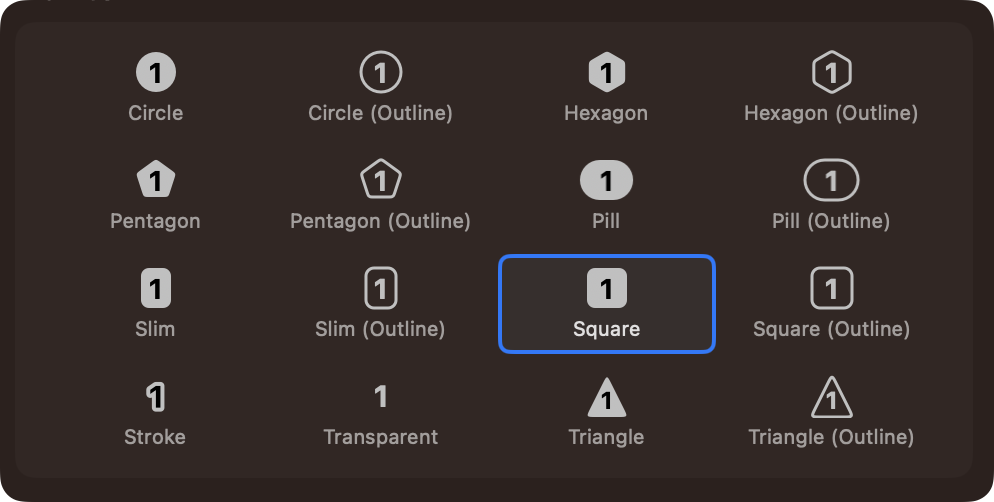
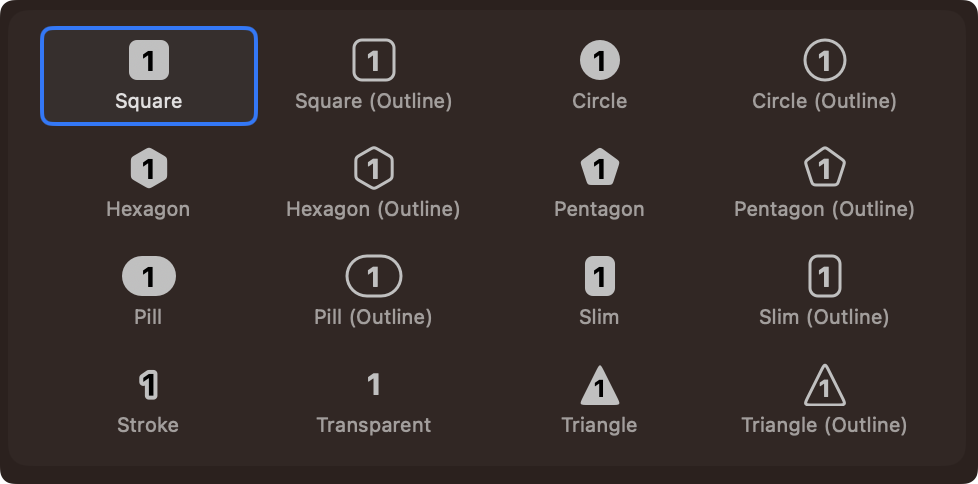
backup: Restore system fonts at their recorded size

diff --git a/WhichSpace/Backup.swift b/WhichSpace/Backup.swift
@@ -482,10 +482,18 @@ struct CodableSpaceFont: Codable {
     }
 
     func toSpaceFont() -> SpaceFont? {
-        guard let font = NSFont(name: name, size: size) else {
+        // NSFont(name:size:) does not support private system font names
+        // (".AppleSystemUIFont", ".SFNS..."): the lookup sometimes returns
+        // a fallback at the default size rather than failing. A size
+        // mismatch marks that case, and the system font at the recorded
+        // size is what the backup meant.
+        if let font = NSFont(name: name, size: size), font.pointSize == size {
+            return SpaceFont(font: font)
+        }
+        guard name.hasPrefix(".") else {
             return nil
         }
-        return SpaceFont(font: font)
+        return SpaceFont(font: NSFont.systemFont(ofSize: size))
     }
 }
 

diff --git a/WhichSpaceTests/Core/BackupTests.swift b/WhichSpaceTests/Core/BackupTests.swift
@@ -125,6 +125,17 @@ struct CodableSpaceFontTests {
         #expect(codable.size == 12)
     }
 
+    @Test("private system font names restore at the recorded size")
+    func privateSystemFontRestores() throws {
+        // Written by older exports; NSFont(name:size:) resolves the private
+        // name to the wrong size or not at all depending on system state
+        let json = #"{"name":".AppleSystemUIFont","size":14}"#
+        let codable = try JSONDecoder().decode(CodableSpaceFont.self, from: Data(json.utf8))
+        let restored = try #require(codable.toSpaceFont())
+
+        #expect(restored.font.pointSize == 14)
+    }
+
     @Test("JSON encode/decode round-trip")
     func jsonEncodeDecode() throws {
         let original = CodableSpaceFont(from: SpaceFont(font: NSFont.systemFont(ofSize: 16)))
